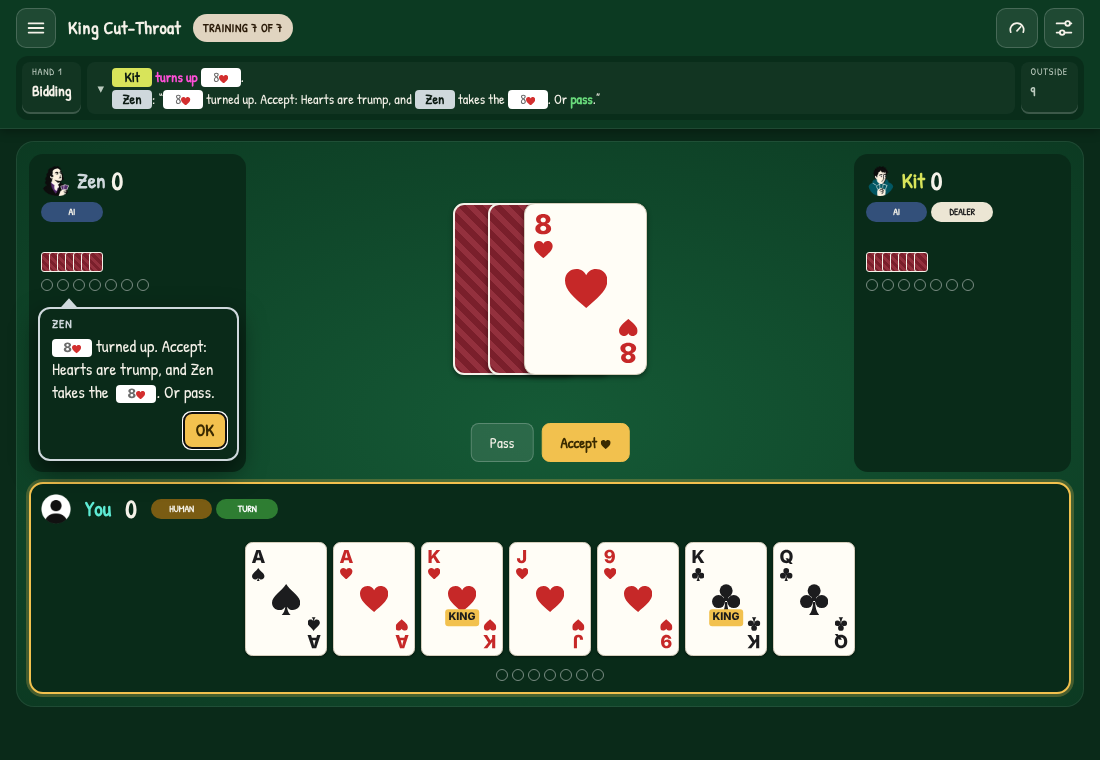
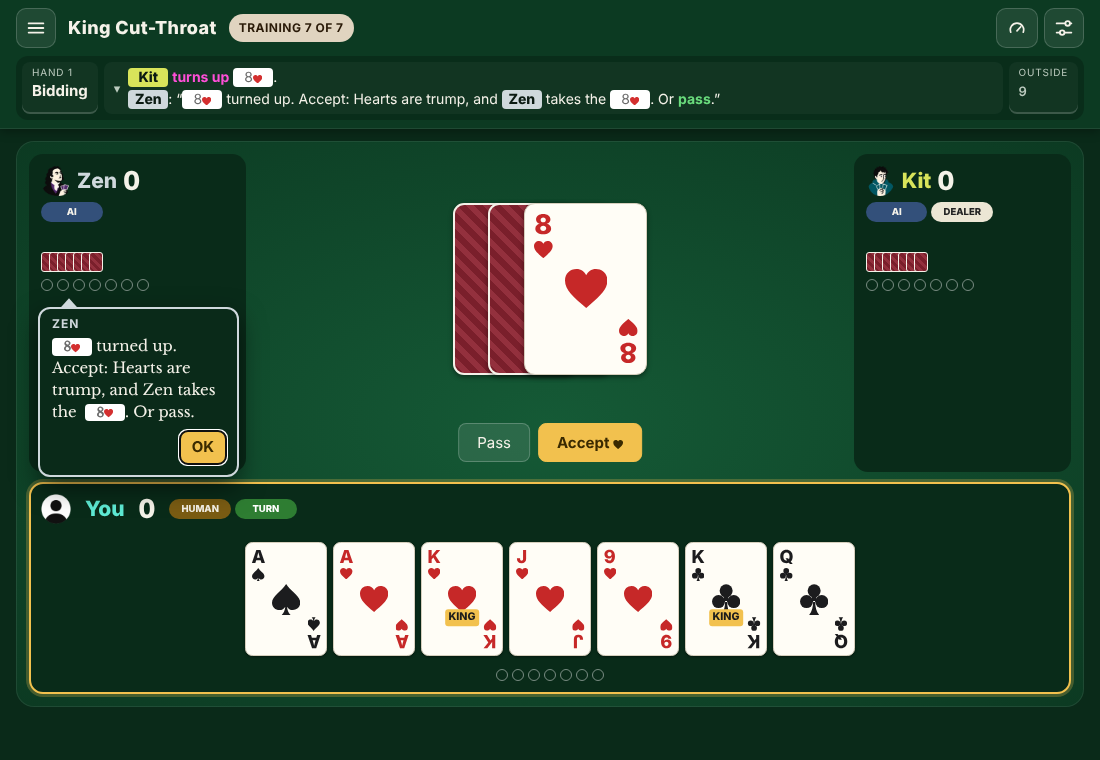
Training: the lesson font marks the dialogue only, in a book serif
The handwriting font was the wrong kind and on the whole interface.
Lessons should look like the real game, so only the teachers' spoken
lines now have a font of their own: Libre Baskerville (SIL OFL), a book
serif, embedded. The table, tags, buttons, header and lobby keep the
game's font. Phone bubbles are a little tighter so every lesson's hand
stays in view.

diff --git a/index.html b/index.html
@@ -769,18 +769,16 @@ body.adv .tag.led{background:#00838f;color:#fff}
   body.adv .tagbox .tag{font-size:0.5rem!important;padding:0 1px!important}
 }
 /* ---- Training and Puzzles (docs/ui/teacher-bubbles.md) ----
-   The training font marks a lesson and the lobby: Patrick Hand by Patrick Wagesreiter, SIL Open Font License 1.1
-   (Latin subset, from Google Fonts), embedded so it works offline. Cards, dialogs and Settings keep the game's font. */
[1 lines of base64/hex data omitted]
-body.lesson{font-family:"Training Hand",system-ui,-apple-system,"Segoe UI",Roboto,Helvetica,Arial,sans-serif;font-size:1.0625rem}
-body.lesson .card,body.lesson .micro,body.lesson .overlay,body.lesson .settings,body.lesson .gamelog{font-family:system-ui,-apple-system,"Segoe UI",Roboto,Helvetica,Arial,sans-serif}
-body.lesson .card{font-size:0.9375rem}
+   Only the teachers' dialogue has a font of its own, so a spoken line reads as a voice; the rest of the table is the
+   game as it always looks. Libre Baskerville by Impallari Type, SIL Open Font License 1.1 (Latin subset, from Google
+   Fonts), embedded so it works offline. */
[1 lines of base64/hex data omitted]
 /* The teacher bubble: a popup with a speaker. Wide screens: in the speaker's seat panel, the tail up at the seat.
    Phones: a row under the seats, which moves the table down. */
 .talk{position:absolute;z-index:25;background:var(--page);color:var(--ink);border:0.125rem solid var(--who);border-radius:0.75rem;box-shadow:0 0.625rem 1.625rem rgba(0,0,0,.55);line-height:1.35;animation:talkIn .15s ease-out;transform-origin:1.5rem 0}
 .talk::before{content:"";position:absolute;top:-0.6875rem;left:1.25rem;width:1.125rem;height:0.625rem;background:var(--who);clip-path:polygon(50% 0,100% 100%,0 100%)}
 .talk .speaker{display:block;padding:0.4375rem 0.75rem 0;font-size:0.75rem;letter-spacing:.08em;text-transform:uppercase;color:var(--who)}
-.talk p{margin:0.1875rem 0.75rem 0.5rem;font-size:1.0625rem}
+.talk p{margin:0.1875rem 0.75rem 0.5rem;font-family:"Lesson Voice",Georgia,"Times New Roman",serif;font-size:0.9375rem;line-height:1.45}
 .talk .acts{display:flex;flex-wrap:wrap;justify-content:flex-end;gap:0.5rem;padding:0 0.625rem 0.625rem}
 .talk .acts .btn{white-space:nowrap}
 .talk.aside{pointer-events:none;opacity:.97}
@@ -791,7 +789,7 @@ body.lesson .card{font-size:0.9375rem}
   .table.talking{grid-template-areas:"west east" "talk talk" "center center" "me me"}
   .table.talking > .talk{grid-area:talk;position:relative;left:auto;top:auto;width:auto;margin-top:0.375rem;display:grid;grid-template-columns:1fr auto;align-items:end}
   .talk .speaker{grid-column:1 / -1;padding-top:0.3125rem}
-  .talk p{margin:0.125rem 0.625rem 0.4375rem;font-size:1rem}
+  .talk p{margin:0.125rem 0.625rem 0.4375rem;font-size:0.8125rem;line-height:1.35}
   .talk .acts{padding:0 0.5rem 0.4375rem;flex-wrap:nowrap}
   .talk.from2::before{left:auto;right:1.25rem}
 }
@@ -7368,8 +7366,6 @@ const App = (() => {
     chip.className = 'mode-chip' + (watch ? ' replay' : L ? ' lesson' : app.mode ? ' ' + app.mode : '');
     chip.hidden = !app.mode && !watch;
     chip.title = watch ? 'Exit the replay' : L ? 'All the lessons' : waves ? 'Your tries for each wave' : 'Your wins against each opponent';
-    /* Training's own font marks a lesson, and the lobby on the empty table. */
-    document.body.classList.toggle('lesson', !watch && (!!L || !app.mode));
     document.body.classList.toggle('lesson-over', !!(L && L.verdict));
     if (watch) chip.setAttribute('aria-label', 'Exit the replay'); else chip.removeAttribute('aria-label');
     /* A setting that does not apply now is dimmed and out of reach: no click, no keyboard focus (inert). */

diff --git a/tests/training.js b/tests/training.js
@@ -41,9 +41,11 @@ const LESSON = `
     let r = await step(`
       await sleep(300);
       return { menu: overlayOpen(), talk: !!q('#talk'), start: !!talkBtn('training-start'), who: q('#talk .speaker') && q('#talk .speaker').textContent,
-        font: document.body.classList.contains('lesson'), mode: app.mode, choose: !!q('#center [data-action="menu"]') };`);
+        voice: getComputedStyle(q('#talk p')).fontFamily, table: getComputedStyle(q('#seat1 .seat-name') || document.body).fontFamily,
+        mode: app.mode, choose: !!q('#center [data-action="menu"]') };`);
     expect('a first launch opens on the lobby, not the menu', !r.menu && r.mode === null, r);
-    expect('Ace offers Training in a bubble, in the training font', r.talk && r.start && r.who === 'Ace' && r.font, r);
+    expect('Ace offers Training in a bubble', r.talk && r.start && r.who === 'Ace', r);
+    expect('only the dialogue has the lesson font; the table keeps the game\'s font', /Lesson Voice/.test(r.voice) && !/Lesson Voice/.test(r.table), r);
     expect('the table still offers Choose a game', r.choose, r);
 
     r = await step(`

diff --git a/docs/ui/teacher-bubbles.md b/docs/ui/teacher-bubbles.md
@@ -11,7 +11,7 @@ Status: built. Revised 2026-10-19.
 - **Ten puzzles past the basics,** found in real bot games by a search, each with exactly one right move.
 - **Bots as teachers.** A strong bot teaches from West, and a learner asks from East. Every line is in the bot's own voice, and short.
 - **Lessons keep nothing a game keeps:** no saved game, no results, no replay, no wave try. Only `kct.lessons`, the lessons done.
-- **A font of its own.** Lessons and the lobby use a hand-written font (Patrick Hand), so it's always clear when you are training.
+- **A voice, not a new look.** Only the teachers' spoken lines use a font of their own, a book serif (Libre Baskerville), so a line reads as someone talking. Everything else looks exactly as it does in a game: lessons get players used to the real table.
 
 ## Entry: the lobby
 
@@ -107,7 +107,7 @@ One bubble shows at a time, in order. Every line also goes into the Latest Scrol
 
 **Access.** A stop bubble is a dialog labeled with the speaker's name. Focus moves to its main button, so Enter or Space presses it. An aside is a status line, read politely. With reduced motion, the bubble appears without its grow animation.
 
-**The font.** Lessons and the lobby use Patrick Hand by Patrick Wagesreiter (SIL Open Font License 1.1), embedded as a 24 KB Latin subset, so it works offline. Cards, dialogs, the menu, Settings and the Latest Scroll keep the game's own font.
+**The font.** Only the spoken line in a bubble uses its own font: Libre Baskerville by Impallari Type (SIL Open Font License 1.1), a book serif made for reading on screen, embedded as a 20 KB Latin subset, so it works offline. It marks the line as a voice. The bubble's name, its buttons and the whole table keep the game's font, so what a player learns looks exactly like what they will play.
 
 ## The menu
 

diff --git a/README.md b/README.md
@@ -280,7 +280,7 @@ KCT.App.app.dyn.e                  // the easing of the running Dynamic game: 0 
 
 ## Training and Puzzles
 
-Training teaches the table and the rules in seven short lessons, then a real hand. Finishing it opens **Puzzles**, the fourth mode: ten positions past the basics. In every lesson, two bots sit at the table as teachers and speak in speech bubbles from their seats, in their own voices. Lessons and the lobby use a hand-written font, so it is always clear when you are training. The design, the screenshots and the teaching methods are in [docs/ui/teacher-bubbles.md](docs/ui/teacher-bubbles.md). The format and the search are in [docs/puzzles.md](docs/puzzles.md).
+Training teaches the table and the rules in seven short lessons, then a real hand. Finishing it opens **Puzzles**, the fourth mode: ten positions past the basics. In every lesson, two bots sit at the table as teachers and speak in speech bubbles from their seats, in their own voices. Only the teachers' spoken lines use a font of their own, a book serif; the table looks exactly as it does in a game. The design, the screenshots and the teaching methods are in [docs/ui/teacher-bubbles.md](docs/ui/teacher-bubbles.md). The format and the search are in [docs/puzzles.md](docs/puzzles.md).
 
 - **The lobby.** The table with no game seats two hosts. Before Training is done, Ace and Kit: **Start training** (or **Continue training**). After, Mei and Vex: **Next puzzle**.
 - **A lesson.** One or two bubbles, then you play. The header chip counts the lessons (**Training 3 of 7**, **Puzzles 4 of 10**) and opens their list. A wrong move fails the lesson at once, also when it only lets the defence stop you a few tricks later: **Try again**, or **Hint** (the right card glows in your hand). Your move closes any bubble.
